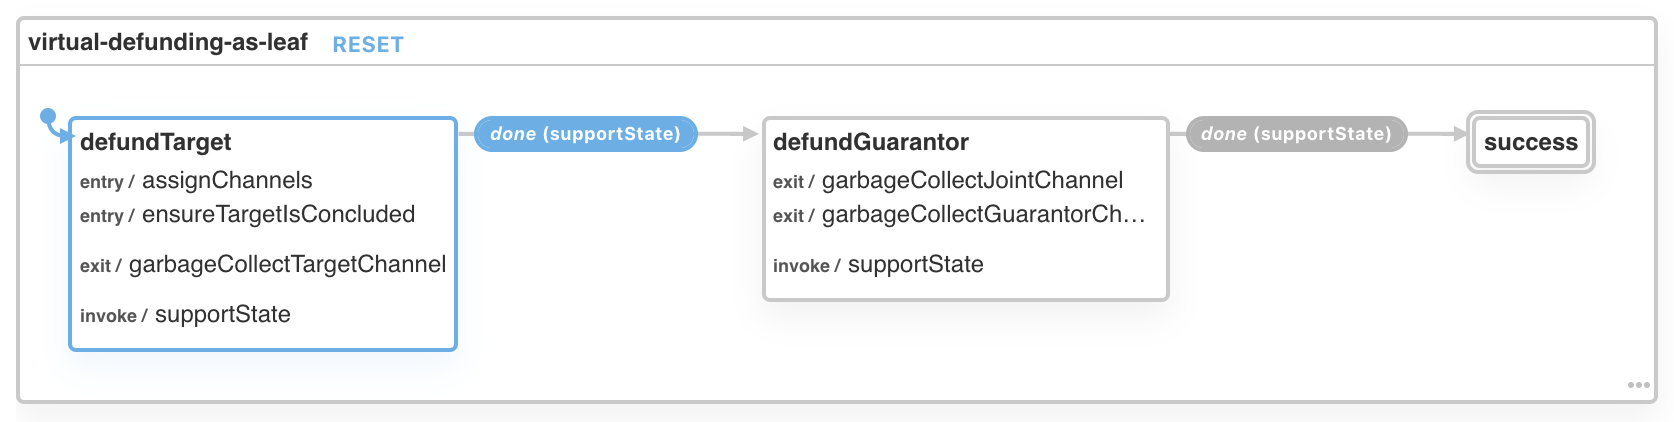
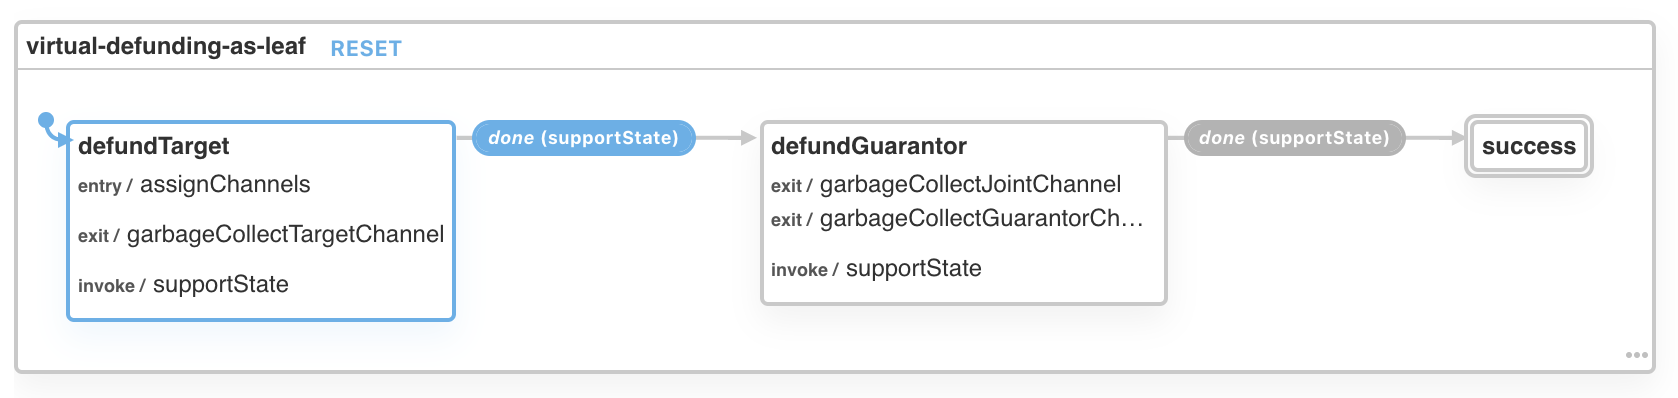
Construct ledger update data in virtual-defunding-as-leaf

Changed region(s): [[0.0, 0.0302, 0.994, 0.9648], [0.4349, 0.7538, 0.7145, 0.7839]]

diff --git a/src/protocols/virtual-defunding-as-leaf/protocol.ts b/src/protocols/virtual-defunding-as-leaf/protocol.ts
@@ -1,26 +1,35 @@
 import { assign } from 'xstate';
-import { store } from '../../';
-import { isVirtualFunding } from '../../ChannelStoreEntry';
-import { shouldBe } from '../../store';
+import { Allocation, nextState, State, store } from '../../';
+import { isIndirectFunding, isVirtualFunding } from '../../ChannelStoreEntry';
+import { isAllocation, shouldBe } from '../../store';
 import { saveConfig } from '../../utils';
 
+import * as LedgerUpdate from '../ledger-update/protocol';
 const PROTOCOL = 'virtual-defunding-as-leaf';
 
 export interface Init {
   targetChannelId: string;
+  index: 0 | 1;
 }
 
 export const assignChannels = assign(
-  ({ targetChannelId }: Init): ChannelsSet => {
+  ({ targetChannelId, index }: Init): ChannelsSet => {
     const { jointChannelId, guarantorChannelId } = shouldBe(
       isVirtualFunding,
       store.getEntry(targetChannelId).funding
     );
 
+    const { ledgerId: hubLedgerId } = shouldBe(
+      isIndirectFunding,
+      store.getEntry(guarantorChannelId).funding
+    );
+
     return {
       targetChannelId,
+      index,
       jointChannelId,
       guarantorChannelId,
+      hubLedgerId,
     };
   }
 );
@@ -28,28 +37,87 @@ export const assignChannels = assign(
 export type ChannelsSet = Init & {
   jointChannelId: string;
   guarantorChannelId: string;
+  hubLedgerId: string;
 };
 
+function finalJointChannelUpdate({
+  jointChannelId,
+  targetChannelId,
+}: ChannelsSet): LedgerUpdate.Init {
+  const { state: targetChannelState } = store.getLatestSupport(
+    targetChannelId
+  )[0];
+  if (!targetChannelState.isFinal) {
+    throw new Error('Target channel not finalized');
+  }
+  const { state: jointState } = store.getLatestConsensus(jointChannelId);
+
+  const jointOutcome = shouldBe(isAllocation, jointState.outcome);
+  const targetChannelIdx = jointOutcome.findIndex(
+    a => a.destination === targetChannelId
+  );
+  const targetOutcome = [
+    ...shouldBe(isAllocation, targetChannelState.outcome),
+    ...jointOutcome.splice(targetChannelIdx),
+  ];
+  return {
+    channelID: jointChannelId,
+    targetOutcome,
+  };
+}
 const defundTarget = {
-  entry: ['assignChannels', 'ensureTargetIsConcluded'],
+  entry: 'assignChannels',
   invoke: {
     src: 'supportState',
-    data: 'finalJointChannelState',
+    data: finalJointChannelUpdate.name,
     onDone: 'defundGuarantor',
   },
   exit: 'garbageCollectTargetChannel',
 };
 
+function defundGuarantorInLedger({
+  hubLedgerId,
+  jointChannelId,
+  index,
+}: ChannelsSet): LedgerUpdate.Init {
+  /*
+  Case:
+    - jointOutcome == [(A, a), (H, a+b), (B, b)]
+    - index == 0
+  Goal: targetOutcome == [(A, a), (H, b)]
+
+  Case:
+    - jointOutcome == [(A, a), (H, a+b), (B, b)]
+    - index == 1
+  Goal: targetOutcome == [(B, b), (H, a)]
+  */
+
+  const jointOutcome = store.getLatestSupportedAllocation(jointChannelId);
+
+  const targetOutcome: Allocation = [
+    {
+      destination: jointOutcome[2 * index].destination,
+      amount: jointOutcome[2 * index].amount,
+    },
+    {
+      destination: jointOutcome[1].destination,
+      amount: jointOutcome[2 * (1 - index)].amount,
+    },
+  ];
+  return {
+    channelID: hubLedgerId,
+    targetOutcome,
+  };
+}
 const defundGuarantor = {
   invoke: {
     src: 'supportState',
-    data: 'defundGuarantorInLedger',
+    data: defundGuarantorInLedger.name,
     onDone: 'success',
   },
   exit: ['garbageCollectJointChannel', 'garbageCollectGuarantorChannel'],
 };
 
-// PROTOCOL DEFINITION
 const config = {
   key: PROTOCOL,
   initial: 'defundTarget',

diff --git a/src/index.ts b/src/index.ts
@@ -18,14 +18,25 @@ export type Outcome = Allocation | Guarantee;
 export type Address = string;
 export type PrivateKey = string;
 
-export interface State {
+interface VariablePart {
   turnNum: number;
   outcome: Outcome;
+  isFinal: boolean;
+}
+
+export type State = VariablePart & {
   appData?: AppData;
   appDefinition?: string;
   channel: Channel;
   challengeDuration: string;
-  isFinal: boolean;
+};
+
+export function nextState(state: State, opts?: Partial<VariablePart>): State {
+  return {
+    ...state,
+    turnNum: state.turnNum + 1,
+    ...opts,
+  };
 }
 
 export interface Channel {

diff --git a/src/store.ts b/src/store.ts
@@ -281,5 +281,12 @@ export function isAllocation(outcome: Outcome): outcome is Allocation {
 const throwError = (fn: (t1: any) => boolean, t) => {
   throw new Error(`not valid, ${fn.name} failed on ${t}`);
 };
+/*
+TODO: replace shouldBe with checkThat
+reasoning: checkThat(outcome, isAllocation) reads like an english sentence
+*/
 export const shouldBe = <T>(fn: (t1) => t1 is T, t) =>
+  fn(t) ? t : throwError(fn, t);
+
+export const checkThat = <T>(t, fn: (t1) => t1 is T) =>
   fn(t) ? t : throwError(fn, t);

diff --git a/src/protocols/virtual-defunding-as-leaf/protocol.config.js b/src/protocols/virtual-defunding-as-leaf/protocol.config.js
@@ -3,10 +3,10 @@ const config = {
   initial: 'defundTarget',
   states: {
     defundTarget: {
-      entry: ['assignChannels', 'ensureTargetIsConcluded'],
+      entry: 'assignChannels',
       invoke: {
         src: 'supportState',
-        data: 'finalJointChannelState',
+        data: 'finalJointChannelUpdate',
         onDone: 'defundGuarantor',
       },
       exit: 'garbageCollectTargetChannel',
